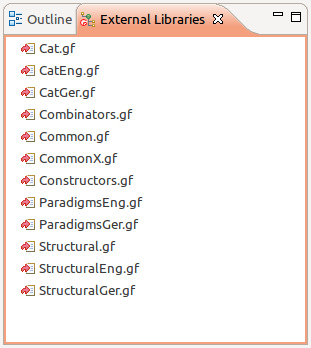
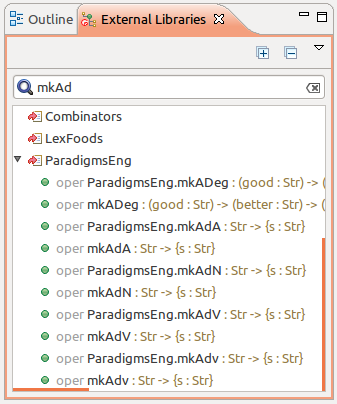
GFEP: Updated readme

Changed region(s): [[0.0, 0.0, 1.0, 1.0], [0.8392, 0.8621, 0.8971, 0.9195]]

diff --git a/eclipse/index.html b/eclipse/index.html
@@ -1,17 +1,7 @@
-<html>
-<head>
-
-<title>GF Eclipse Plugin</title>
-
-<link rel="stylesheet" type="text/css" href="http://www.grammaticalframework.org/css/style.css">
-
-</head>
-<body>
-
 <h1>The GF Eclipse Plugin</h1>
 
 <p>John  J. Camilleri<br />
-Updated: 19 April 2012</p>
+Updated: 1 June 2012</p>
 
 <p><em>The research leading to these results has received funding from the European Union&#8217;s Seventh Framework Programme (FP7/2007-2013) under grant agreement no. FP7-ICT-247914 (the <a href="http://www.molto-project.eu/">MOLTO Project</a>).</em></p>
 
@@ -38,13 +28,20 @@ Updated: 19 April 2012</p>
 <li>Software update site URL for installing through Eclipse: <code>http://www.grammaticalframework.org/eclipse/release/</code></li>
 </ul>
 
+<h3>Publications</h3>
+
+<ul>
+<li><a href="http://academic.johnjcamilleri.com/presentations/2012-05%20EAMT%20poster.pdf">Poster</a> at EAMT 2012 in Trento, Italy</li>
+<li><a href="http://academic.johnjcamilleri.com/papers/freerbmt2012.pdf">Paper</a> presented at FreeRBMT 2012 in Gothenburg, Sweden.</li>
+</ul>
+
 <h2>Features</h2>
 
 <ul>
 <li>Syntax highlighting and error detection</li>
 <li>Code folding, quick block-commenting, automatic code formatting</li>
 <li>Definition outlining, jump to declaration, find usage</li>
-<li>Warnings for problems in module dependancy hierarchy</li>
+<li>Warnings for problems in module dependency hierarchy</li>
 <li>Launch configurations, i.e. compilation directly from IDE</li>
 <li>Use GF Shell from within Eclipse</li>
 <li>Auto-completion for declared identifiers</li>
@@ -67,7 +64,7 @@ Updated: 19 April 2012</p>
 <dd>(1.4.3.x) Improvements to the Test Manager. Added support for arbitrary commands in launch. Made the license information clearer.</dd>
 
 <dt><strong>22/03/12</strong></dt>
-<dd>(1.4.2.x) Added wizard for context-free grammars (no syntax support, though). Context-menu option for toggling the GF Nature and Builder together. Test Manager now parses languages &amp; params, and includes filtering and toggling options.</dd>
+<dd>(1.4.2.x) Added wizard for context-free grammars (no syntax support, though). Context-menu option for toggling the GF Nature and Builder together. Test Manager now parses languages &amp; parameters, and includes filtering and toggling options.</dd>
 
 <dt><strong>14/03/12</strong></dt>
 <dd>(1.4.1.x) GF source files can now be anywhere in project, not necessarily at top level.</dd>
@@ -91,7 +88,7 @@ Updated: 19 April 2012</p>
 <dd>(1.2.0.x) with support for &#8220;Open Declaration&#8221; (F3) function, including for external libraries.</dd>
 
 <dt><strong>18/11/11</strong></dt>
-<dd>Third BETA (1.1.0.x) released, overhauled to take advantage of new compiler features. Tag-based scoping with caching for better performance. Interactive console (GF Shell) for luanch configs.</dd>
+<dd>Third BETA (1.1.0.x) released, overhauled to take advantage of new compiler features. Tag-based scoping with caching for better performance. Interactive console (GF Shell) for launch configs.</dd>
 
 <dt><strong>11/10/11</strong></dt>
 <dd>Second BETA (1.0.0.x) released, with improved support for qualified names, local variable bindings, selective inheritance, module outlining, and launch configurations. Also new GF Project type.</dd>
@@ -149,7 +146,8 @@ Updated: 19 April 2012</p>
 <ol>
 <li>Add the GF perspective by clicking <strong>Window &rarr; Open Perspective &rarr; Other</strong> and choosing <strong>GF</strong>.</li>
 <li>The plugin will try to determine the path to your GF executable automatically. You can check/overwrite it by going to <strong>Preferences &rarr; Grammatical Framework</strong>.
-This path should <strong>include</strong> the name of the GF binary itself, e.g. <code>/home/john/.cabal/bin/gf</code> or <code>C:\Users\John\GF\gf.exe</code>.</li>
+This path should include the name of the GF binary itself, e.g. <code>/home/john/.cabal/bin/gf</code> or <code>C:\Users\John\GF\gf.exe</code>.</li>
+<li>By default, the <em>Library path</em> setting is set to <code>.:present:alltenses:prelude</code>. This is passed to GF using the <code>--path</code> flag.</li>
 <li>You can also adjust the verbosity level of the GFEP console log in the preferences window.</li>
 </ol>
 
@@ -253,7 +251,7 @@ You will probably want to ignore these directories in your version control syste
 
 <h3>Create a new GF Project</h3>
 
-<p>If you have a folder in your workspace which you want to convert into a GF Project, then you can select it from the dropdown. This folder will then appear as an Eclipse project in your workspace.</p>
+<p>If you have a folder in your workspace which you want to convert into a GF Project, then you can select it from the drop-down. This folder will then appear as an Eclipse project in your workspace.</p>
 
 <p><img src="http://www.grammaticalframework.org/eclipse/images/eclipse-projectwizard-1.png" alt="New project wizard" />
 <img src="http://www.grammaticalframework.org/eclipse/images/eclipse-projectwizard-2.png" alt="New project wizard" /></p>
@@ -268,7 +266,7 @@ You will probably want to ignore these directories in your version control syste
 
 <h3>Clone module wizard</h3>
 
-<p>If you want to clone an existing module into a new language, you can now do so via the <strong>Clone GF Module</strong> wizard. This is also available as a context menu option in the <strong>Project Explorer</strong>, via <strong>&lt;Richt click&gt; &rarr; Grammatical Framework &rarr; Compile for new language</strong>:</p>
+<p>If you want to clone an existing module into a new language, you can now do so via the <strong>Clone GF Module</strong> wizard. This is also available as a context menu option in the <strong>Project Explorer</strong>, via <strong>&lt;Right click&gt; &rarr; Grammatical Framework &rarr; Compile for new language</strong>:</p>
 
 <p><img src="http://www.grammaticalframework.org/eclipse/images/eclipse-clonewizard.png" alt="Clone GF module to new language wizard" /></p>
 
@@ -278,7 +276,7 @@ You will probably want to ignore these directories in your version control syste
 
 <h3>Workbench editor layout</h3>
 
-<p>Use Eclipes&#8217; own features to drag and drop your editor tabs to suit your needs.</p>
+<p>Use Eclipse&#8217; own features to drag and drop your editor tabs to suit your needs.</p>
 
 <p><img src="http://www.grammaticalframework.org/eclipse/images/eclipse-editor-general.png" alt="The editor and outline view" /></p>
 
@@ -301,7 +299,7 @@ You will probably want to ignore these directories in your version control syste
 <h4>Builder</h4>
 
 <p>For validation to work correctly, the project&#8217;s <strong>Build Automatically</strong> option should be turned on.
-Each time you save a file (or some other change occurs in your project), the builder should get triggered which recompiles any GF files which have changed. If the builder does not seem to get triggered, try to run a <em>clean</em> via <strong>Project &rarr; Clean&#8230;</strong></p>
+Each time you save a file (or some other change occurs in your project), the builder should get triggered which re-compiles any GF files which have changed. If the builder does not seem to get triggered, try to run a <em>clean</em> via <strong>Project &rarr; Clean&#8230;</strong></p>
 
 <h3>Code formatting</h3>
 
@@ -344,7 +342,7 @@ Each time you save a file (or some other change occurs in your project), the bui
 
 <p><img src="http://www.grammaticalframework.org/eclipse/images/eclipse-console-icon.png" alt="Display Selected Console icon" /></p>
 
-<p>If the process associated with a console window has terminated, it will be indicated in the upper-left corner as below. Such console windows can then be closed using the gray cross button:</p>
+<p>If the process associated with a console window has terminated, it will be indicated in the upper-left corner as below. Such console windows can then be closed using the grey cross button:</p>
 
 <p><img src="http://www.grammaticalframework.org/eclipse/images/eclipse-console-terminated.png" alt="Close terminated console icon" /></p>
 
@@ -354,9 +352,9 @@ Each time you save a file (or some other change occurs in your project), the bui
 
 <p>This view is automatically populated with a list of all the external modules referenced by the current file. Double-clicking on any item provides a quick way of opening GF files which are imported into your grammar from outside your Eclipse project, for example the GF Resource Grammar Library.</p>
 
-<p><img src="http://www.grammaticalframework.org/eclipse/images/eclipse-external-libraries.png" alt="External libraries view" /></p>
+<p>This view also provides a text box for searching within the current module&#8217;s scope, as shown in the image below. Clicking the small arrow on the right-hand side of the view provides options for case sensitive and/or regular-expression based search.</p>
 
-<p><em>Future versions of this view will contain a full tree of all identifiers available in the current scope.</em></p>
+<p><img src="http://www.grammaticalframework.org/eclipse/images/eclipse-external-libraries.png" alt="External libraries view" /></p>
 
 <h3><em>Test Manager</em> view</h3>
 
@@ -399,6 +397,34 @@ Each time you save a file (or some other change occurs in your project), the bui
 
 <!----------------------------------------------------------------------------->
 
+<h2>Common issues and fixes</h2>
+
+<h3>No identifiers are resolved and my log contains messages saying &#8220;File Syntax.gf does not exist.&#8221;</h3>
+
+<p>In general, this means that something is wrong with your <em>library path</em> setting.</p>
+
+<p>GFEP attempts to compile all of your files individually with GF, which is not the usual way in which you would compile your grammar.
+As a result, when looking for the RGL files, GF needs a little help via the <code>path</code> argument.</p>
+
+<p>The normal way to do this is to specify the <em>Library path</em> setting from  <strong>Preferences &rarr; Grammatical Framework</strong>, setting it to something like <code>.:present:alltenses:prelude</code> (this is the default setting). Note that these paths are relative to the true RGL directory, which GF should already be aware of. The value of this setting is passed to GF from GFEP using the <code>--path</code> flag.</p>
+
+<p>The <em>Library path</em> setting is the same for all your GF projects. If you want finer-grain control over the <code>path</code> compiler option then you should use compiler pragmas in your source files, e.g.:</p>
+
+<pre><code>--# -path=.:present:alltenses:prelude
+</code></pre>
+
+<p>The advantage of this method is that the information is bound to the file, so you can freely compile your modules outside of GFEP without having to specify the path as a command line option to GF.
+The disadvantage is that you need to specify such a pragma in every single file (at least if you want to continue to use the GFEP).</p>
+
+<h3>Other strange behaviour</h3>
+
+<p>When things seem strange, the very first step is always to clean the project via <strong>Project &rarr; Clean&#8230;</strong>.
+I only support the latest version of the plugin, so make sure you are up to date too.</p>
+
+<p>If problems persist, please contact me or better yet file an issue on the GitHub issue tracker (see below).</p>
+
+<!----------------------------------------------------------------------------->
+
 <h2>Evaluation &amp; feedback</h2>
 
 <p>Please try to use the plugin for developing your own GF projects and report any issues you come up against.
@@ -435,39 +461,44 @@ Feedback (both negative and positive) on the following would be appreciated:</p>
 <tr>
   <td align="center"><img src="http://www.grammaticalframework.org/eclipse/images/module-abstract.png" alt="" /></td>
   <td align="left">Abstract module</td>
-  <td align="left"><code>abstract Foods = ...</code></td>
+  <td align="left"><code>abstract Foods = {...}</code></td>
 </tr>
 <tr>
   <td align="center"><img src="http://www.grammaticalframework.org/eclipse/images/module-concrete.png" alt="" /></td>
   <td align="left">Concrete module</td>
-  <td align="left"><code>concrete FoodsEng of Foods = ...</code></td>
+  <td align="left"><code>concrete FoodsEng of Foods = {...}</code></td>
 </tr>
 <tr>
   <td align="center"><img src="http://www.grammaticalframework.org/eclipse/images/module-resource.png" alt="" /></td>
   <td align="left">Resource module</td>
-  <td align="left"><code>resource ResFoods = ...</code></td>
+  <td align="left"><code>resource ResFoods = {...}</code></td>
 </tr>
 <tr>
   <td align="center"><img src="http://www.grammaticalframework.org/eclipse/images/module-interface.png" alt="" /></td>
   <td align="left">Interface</td>
-  <td align="left"><code>interface LexFoods = ...</code></td>
+  <td align="left"><code>interface LexFoods = {...}</code></td>
 </tr>
 <tr>
   <td align="center"><img src="http://www.grammaticalframework.org/eclipse/images/module-instance.png" alt="" /></td>
   <td align="left">Instance</td>
-  <td align="left"><code>instance LexFoodsEng of LexFoods = ...</code></td>
+  <td align="left"><code>instance LexFoodsEng of LexFoods = {...}</code></td>
 </tr>
 <tr>
   <td align="center"><img src="http://www.grammaticalframework.org/eclipse/images/module-functor.png" alt="" /></td>
   <td align="left">Functor</td>
-  <td align="left"><code>incomplete concrete FoodsI of Foods = ...</code></td>
+  <td align="left"><code>incomplete concrete FoodsI of Foods = {...}</code></td>
 </tr>
 <tr>
   <td align="center"><img src="http://www.grammaticalframework.org/eclipse/images/module-functor-instantiation.png" alt="" /></td>
   <td align="left">Functor instantiation</td>
-  <td align="left"><code>concrete FoodsEng of Foods = FoodsI with (...) ...</code></td>
+  <td align="left"><code>concrete FoodsEng of Foods = FoodsI with (...) {...}</code></td>
 </tr>
 </tbody>
 </table>
-</body>
-</html>
+
+<h3>Build command</h3>
+
+<p>This is the GF command run by the builder:</p>
+
+<pre><code>gf --v=0 --tags --output-dir=.gfbuild [--path=PATH] FILE
+</code></pre>
